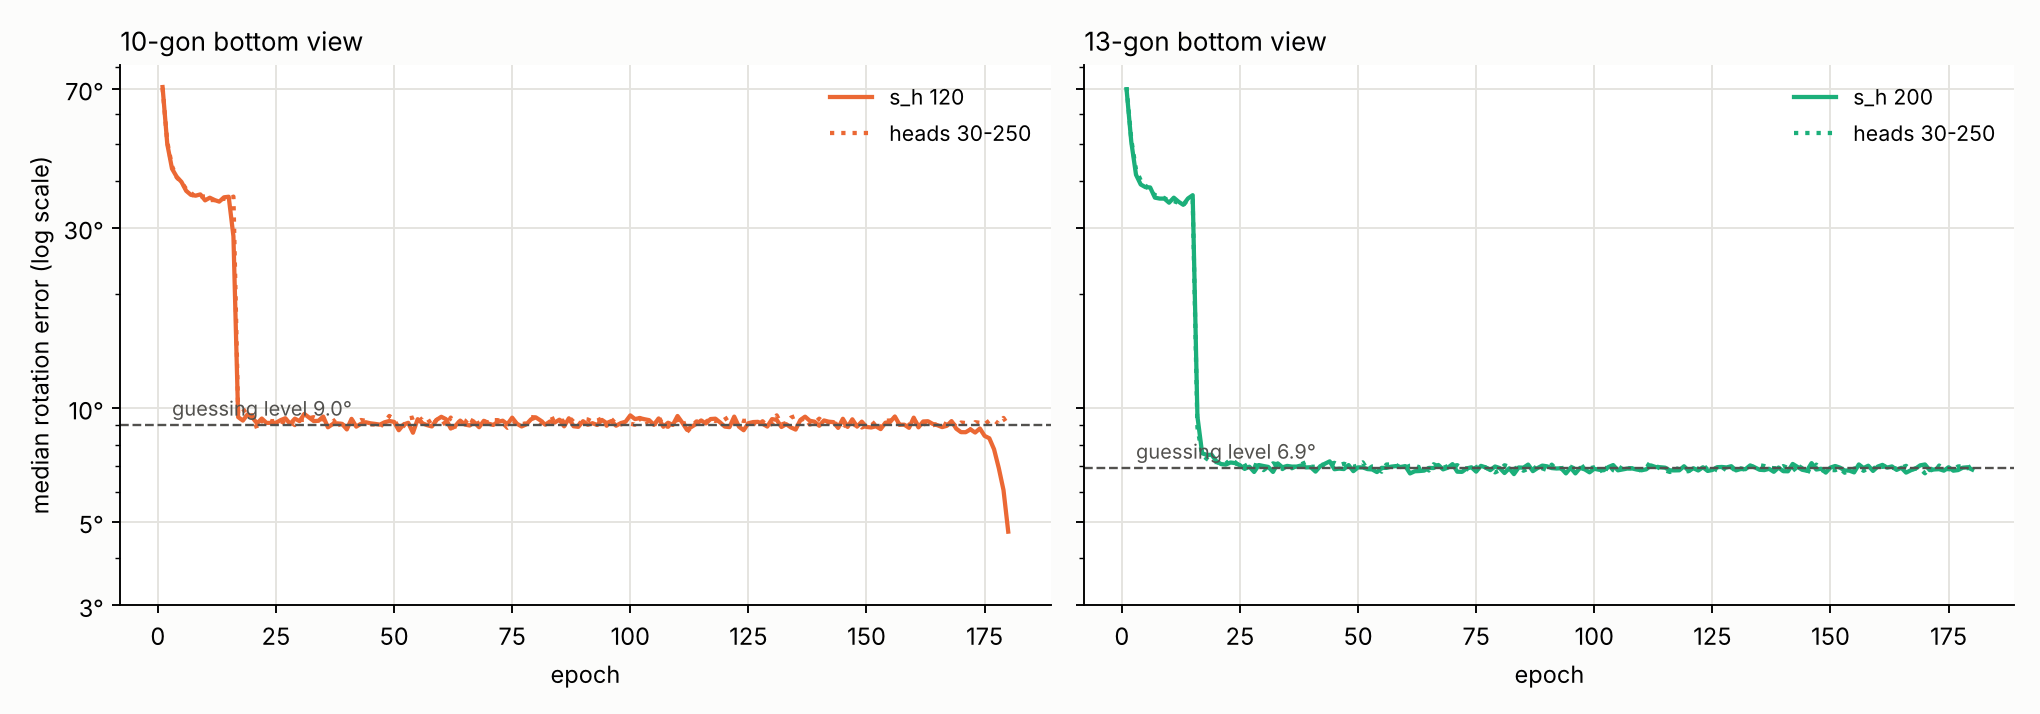
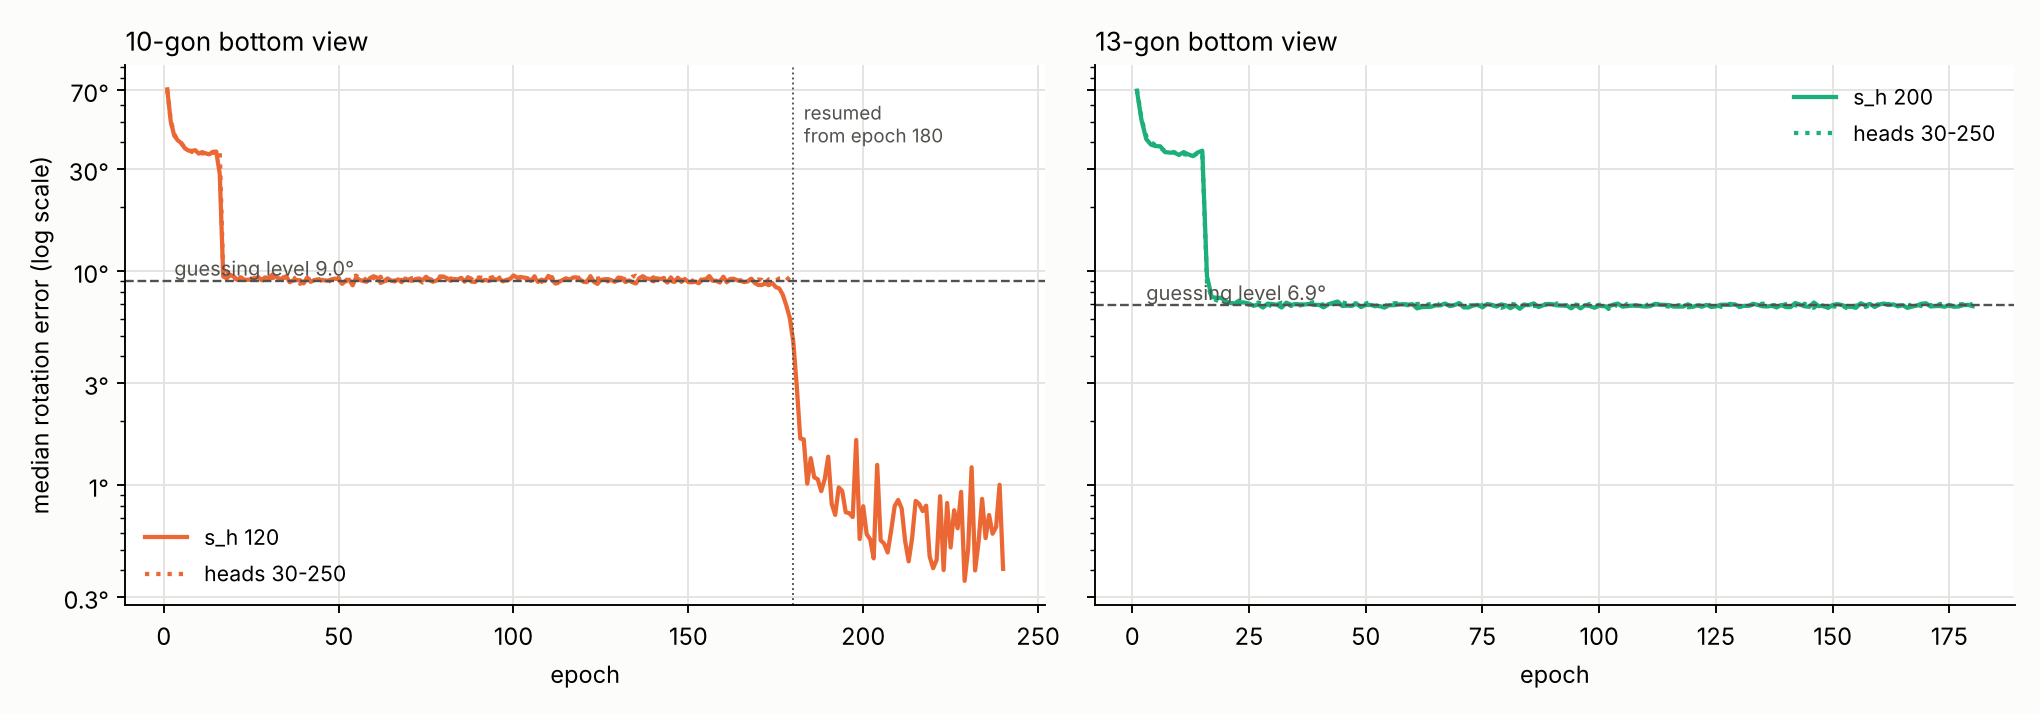
Report: 10-gon at start s_h 120 learned (continued to 240 epochs: final 0.40 deg)
Claude-Session: https://claude.ai/code/session_01CjS2ebrnSKXBxxPg7a3mE2

diff --git a/pose3d/probes/cosdir_interp/plot_s_h_vs_mre.py b/pose3d/probes/cosdir_interp/plot_s_h_vs_mre.py
@@ -8,7 +8,7 @@ INK, INK2, GRID = "#0b0b0b", "#52514e", "#e4e3df"
 # (sides, start s_h, final median error in degrees)
 RUNS = [(7, 30, 12.21), (7, 60, 0.40), (7, 60, 12.12), (7, 60, 11.91), (7, 100, 0.46), (10, 60, 9.11), (13, 60, 6.68)]
 # 180-epoch runs (2026-11-21): one shared start value, and heads log-spaced from 30 to 250 in every block
-LONG = [(10, 120, 4.89), (13, 200, 6.49)]
+LONG = [(10, 120, 0.40), (13, 200, 6.49)]
 SPREAD = [(10, 8.99), (13, 6.98)]
 JIT = {(7, 60, 12.12): -4, (7, 60, 11.91): 4, (10, 60, 9.11): -2, (13, 60, 6.68): 2}
 plt.rcParams.update({"font.size": 11, "axes.edgecolor": INK2, "xtick.color": INK2, "ytick.color": INK2, "axes.labelcolor": INK})
@@ -20,7 +20,7 @@ for n, s, e in RUNS:
     ax.scatter(s + JIT.get((n, s, e), 0), e, s=110, color=C[n], edgecolor="white", linewidth=2, zorder=3)
 for n, s, e in LONG:
     ax.scatter(s, e, s=130, marker="D", color=C[n], edgecolor="white", linewidth=2, zorder=3)
-ax.text(128, 4.89, "breaking through at the end\n(4.7° at epoch 180, still falling)", va="center", fontsize=8.5, color=INK2)
+ax.text(128, 0.40, "learned\n(240 epochs)", va="center", fontsize=8.5, color=INK2)
 XS = 420   # separate column for the spread runs (no single starting value)
 ax.axvline(330, color=GRID, lw=1.5)
 for n, e in SPREAD:
@@ -38,9 +38,9 @@ ax.grid(color=GRID, lw=0.8); ax.set_axisbelow(True)
 for sp in ("top", "right"): ax.spines[sp].set_visible(False)
 from matplotlib.lines import Line2D
 ax.legend(handles=[Line2D([], [], marker="o", ls="", color=C[n], ms=9, label=f"{n}-gon") for n in (7, 10, 13)]
-          + [Line2D([], [], marker="o", ls="", color=INK2, ms=8, label="120 epochs"), Line2D([], [], marker="D", ls="", color=INK2, ms=7, label="180 epochs"),
+          + [Line2D([], [], marker="o", ls="", color=INK2, ms=8, label="120 epochs"), Line2D([], [], marker="D", ls="", color=INK2, ms=7, label="180 epochs (10-gon: 240)"),
              Line2D([], [], marker="s", ls="", color=INK2, ms=7, label="180 epochs, heads spread")],
-          loc="lower right", frameon=False, fontsize=9, ncol=2)
+          loc="center right", bbox_to_anchor=(1.0, 0.45), frameon=False, fontsize=9, ncol=2)
 ax.set_title("Bottom-view pyramids: starting s_h vs final error", loc="left", color=INK, fontsize=12)
 fig.tight_layout()
 out = os.path.join(os.path.dirname(os.path.abspath(__file__)), "../../reports/figures/cosdir_s_h_vs_mre.png")

diff --git a/pose3d/probes/cosdir_interp/plot_sweep_curves.py b/pose3d/probes/cosdir_interp/plot_sweep_curves.py
@@ -12,7 +12,8 @@ for k, n in enumerate(("10", "13")):
         if not lab.startswith(n): continue
         a.plot(range(1, len(y) + 1), y, color=C[n], lw=1.8, ls="-" if "s_h" in lab else ":", label=lab.split(", ")[1])
     a.axhline(90 / int(n), color=INK2, lw=1, ls="--"); a.text(3, 90 / int(n) * 1.06, f"guessing level {90 / int(n):.1f}°", fontsize=8.5, color=INK2)
-    a.set_yscale("log"); a.yaxis.set_major_formatter(mt.FuncFormatter(lambda v, _: f"{v:g}°")); a.set_yticks([3, 5, 10, 30, 70])
+    if n == "10": a.axvline(180, color=INK2, lw=0.8, ls=":"); a.text(183, 40, "resumed\nfrom epoch 180", fontsize=8, color=INK2)
+    a.set_yscale("log"); a.yaxis.set_major_formatter(mt.FuncFormatter(lambda v, _: f"{v:g}°")); a.set_yticks([0.3, 1, 3, 10, 30, 70])
     a.yaxis.set_minor_formatter(mt.NullFormatter()); a.grid(color=GRID, lw=0.8); a.set_axisbelow(True)
     a.set_xlabel("epoch"); a.set_title(f"{n}-gon bottom view", loc="left", fontsize=11); a.legend(frameon=False, fontsize=9)
     for sp in ("top", "right"): a.spines[sp].set_visible(False)

diff --git a/pose3d/reports/cosdir_bottom_view.md b/pose3d/reports/cosdir_bottom_view.md
@@ -321,6 +321,7 @@ are not learned); the spread runs start the 8 heads of every block at log-spaced
 | kernel | pyramid | start s_h | median error, epochs 20 to 170 | last epochs | final evaluation (32 samples) |
 |---|---|---|---|---|---|
 | `elizavetak0zlova/bottom10-s120-cap1000-e180-seed0-t4x2` | 10-gon | 120 | 8.6 to 9.6 | 175 to 180: 8.3, 7.8, 6.9, 6.1, 4.7 | 4.89, acc@15 0.994 |
+| `elizavetak0zlova/bottom10-s120-cap1000-resume-e240-t4x2` (the same run, epochs 181 to 240) | 10-gon | 120 | | 181 to 184: 2.9, 1.65, 1.64, 1.02; last 20 epochs 0.36 to 1.21, mean 0.66 | **0.40, acc@15 1.0** |
 | `elizavetak0zlova/bottom10-spread30-250-cap1000-e180-t4x2` | 10-gon | 30 to 250 | 8.7 to 9.5 | 9.0 | 8.99, acc@15 0.837 |
 | `ainursarimov/bottom13-s200-cap1000-e180-seed0-t4x2` | 13-gon | 200 | 6.7 to 7.3 | 6.9 | 6.49, acc@15 1.0 |
 | `ainursarimov/bottom13-spread30-250-cap1000-e180-t4x2` | 13-gon | 30 to 250 | 6.7 to 7.3 | 7.0 | 6.98, acc@15 1.0 |
@@ -329,7 +330,15 @@ are not learned); the spread runs start the 8 heads of every block at log-spaced
 
 ![10- and 13-gon, error by epoch](figures/cosdir_bottom10_13_sweep_curves.png)
 
-* **The 10-gon at start 120 leaves the plateau at the very end.** After 155 epochs at the guessed-turn level it falls
+* **The 10-gon at start 120 is learned.** Continued from its epoch-180 resume checkpoint for 60 more epochs (constant
+  rate, everything else unchanged; `--n_epochs` raised to 240 by adding it to `engine/resume.py`'s options that may
+  differ on resume), the error kept falling: 2.9 degrees at epoch 181, about 1 by epoch 184, 0.4 to 0.9 from epoch 200
+  on; final evaluation 0.40 degrees, acc@15 1.0, the same level as the 7-gon runs that learned (0.40 and 0.46). The
+  first attempt to resume failed: the checkpoint is loaded with `map_location` set to the GPU, which moves the saved CPU
+  random-number state there, and `torch.set_rng_state` refuses it ("RNG state must be a torch.ByteTensor"). The runner
+  now moves that state back to the CPU before restoring it; the same fix belongs in `engine/resume.py` of the code
+  snapshot, which is not on this branch. The median s_h at epoch 240 is 99 (range 79 to 112).
+* **The 10-gon at start 120 leaves the plateau at the very end of the first 180 epochs.** After 155 epochs at the guessed-turn level it falls
   from about 8.6 degrees at epoch 170 to 4.7 at epoch 180, still falling when the run stops (final evaluation 4.89
   degrees, guessing level 9.0). This is the first 10-gon run below the guessing level; at start 60 it stayed there for
   120 epochs. Whether it reaches the 7-gon's sub-degree level is not known from this run.
